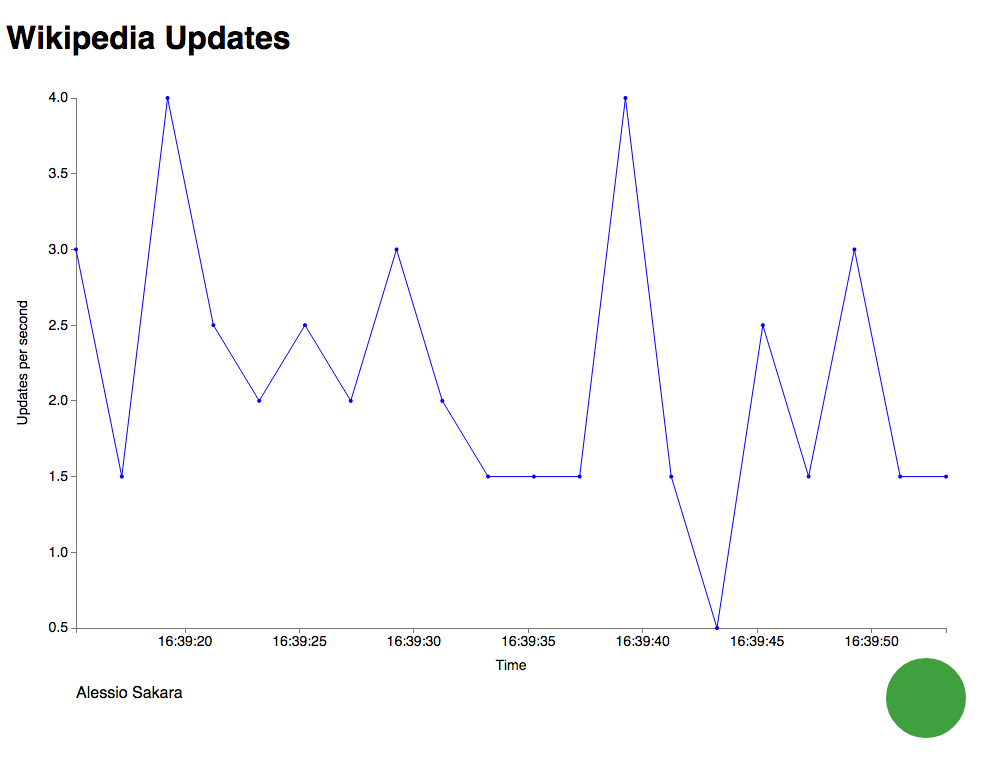
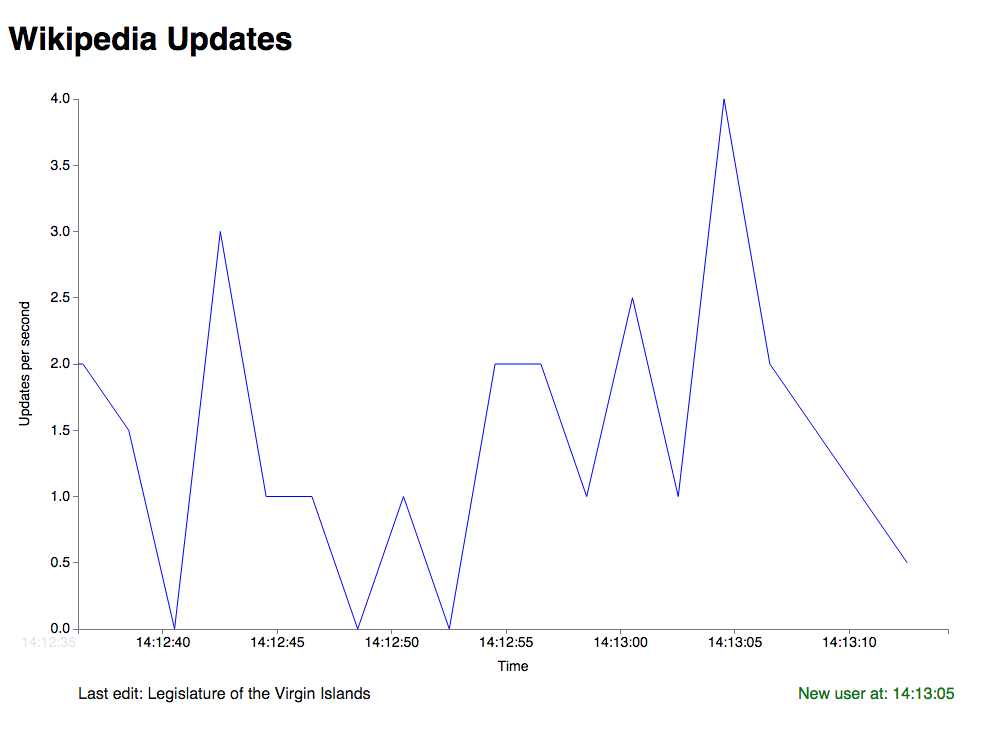
Updates blog post to match latest D3 functionality
I've updated the chart so that it looks like it scrolling forward in time.
This is a lot more appropriate for the use case than the default
transitions which D3 provides.

diff --git a/dgorst/_posts/2014-07-18-frp-with-bacon-and-d3.md b/dgorst/_posts/2014-07-18-frp-with-bacon-and-d3.md
@@ -89,7 +89,8 @@ var updateCount = updateStream.scan(0, function(value) {
 We shall sample this count every 2 seconds. Bacon provides a method, *sample*, which facilitates this.
 
 {% highlight javascript %}
-var sampledUpdates = updateCount.sample(2000);
+var samplingTime = 2000;
+var sampledUpdates = updateCount.sample(samplingTime);
 {% endhighlight %}
 
 Now that we are sampling the number of updates received every 2 seconds, we can calculate the number of updates received since the last sample, and hence the rate at which Wikipedia is being updated.
@@ -97,7 +98,8 @@ Now that we are sampling the number of updates received every 2 seconds, we can 
 {% highlight javascript %}
 var totalUpdatesBeforeLastSample = 0;
 sampledUpdates.onValue(function(value) {
-    var updateRate = (value - totalUpdatesBeforeLastSample) / 2.0;
+    var updateRate = (value - totalUpdatesBeforeLastSample) / 
+                    (samplingTime / 1000));
     console.log(updateRate);
     totalUpdatesBeforeLastSample = value;
     return value;
@@ -110,7 +112,7 @@ Now that we have defined our functional pipeline for events, it's time to do som
 
 I imagine most of you will have heard of D3 already, but for those of you who haven't, D3 is a powerful javascript library for binding data sets to a Document Object Model (DOM). It makes it easier to create good-looking visualisations of your data, and facilitates advanced features such as interactivity or transitions.
 
-In this example, we shall display a line chart showing the rate of Wikipedia updates over time. We shall annotate the chart when new users are created, and we shall display text below the chart showing the subject of Wikipedia edits.
+In this example, we shall display a line chart showing the rate of Wikipedia updates over time. We shall display some text below the chart showing when new users are created, and we shall display text below the chart showing the subject of the latest Wikipedia edits.
 
 First, we shall update our HTML page to contain an SVG element. We shall use this to display our chart and text.
 
@@ -153,11 +155,9 @@ var svg = d3.select("svg")
     .attr("width", width)
     .attr("height", height + 200);
 
-var xRange = d3.time.scale()
-    .range([margins.left, width - margins.right])
+var xRange = d3.time.scale().range([margins.left, width - margins.right])
     .domain([new Date(), new Date()]);
-var yRange = d3.scale.linear()
-    .range([height - margins.bottom, margins.top])
+var yRange = d3.scale.linear().range([height - margins.bottom, margins.top])
     .domain([0, 0]);
 var xAxis = d3.svg.axis()
     .scale(xRange)
@@ -205,19 +205,29 @@ var lineFunc = d3.svg.line()
     .y(function(d) { return yRange(d.y); })
     .interpolate("linear");
 
-var line = svg.append("path")
+svg.append("defs").append("clipPath")
+    .attr("id", "clip")
+    .append("rect")
+    .attr("x", margins.left)
+    .attr("y", margins.top)
+    .attr("width", width)
+    .attr("height", height);
+
+var line = svg.append("g")
+    .attr("clip-path", "url(#clip)")
+    .append("path")
     .attr("stroke", "blue")
     .attr("fill", "none");
 {% endhighlight %}
 
-There are a few things going on in that last code snippet, so let's go through it in a little more detail. First we define a variable which will hold our update data. We shall update this in response to events being handled in our functional pipeline. We then set the size of the SVG element on our HTML page, and add our chart to it. The chart contains an x axis and a y axis, and it displays its data in a line chart. We format the x axis to display date/time values. Initially both the x and y axes have zero ranges. We shall update these as data comes in. We set the attributes of our line series, but we don't actually bind it to a data set yet. We shall do that later on.
+There are a few things going on in that last code snippet, so let's go through it in a little more detail. First we define a variable which will hold our update data. We shall update this in response to events being handled in our functional pipeline. We then set the size of the SVG element on our HTML page, and add our chart to it. The chart contains an x axis and a y axis, and it displays its data in a line chart. We format the x axis to display date/time values. Initially both the x and y axes have zero ranges. We shall update these as data comes in. We set the attributes of our line series, but we don't actually bind it to a data set yet. We shall do that later on. We also define a clipping area, which we apply to the line series. I'll explain the need for this in the next section.
 
 Now that we have a line chart on our page, we need to define a function to update it when new data comes in.
 
 {% highlight javascript %}
-var updateTransitionDuration = 550;
+var maxNumberOfDataPoints = 20;
 
-function update(updates, newUser) {
+function update(updates) {
     // Update the ranges of the chart to reflect the new data
     if (updates.length > 0)   {
         xRange.domain(d3.extent(updates, function(d) { return d.x; }));
@@ -225,99 +235,115 @@ function update(updates, newUser) {
                        d3.max(updates, function(d) { return d.y; })]);
     }
     
-    // Update the line series on the chart
-    line.transition()
-        .duration(updateTransitionDuration)
-        .attr("d", lineFunc(updates));
+    // Until we have filled up our data window, we just keep adding data
+    // points to the end of the chart.
+    if (updates.length < maxNumberOfDataPoints) {
+        line.transition()
+            .ease("linear")
+            .attr("d", lineFunc(updates));
+        
+        svg.selectAll("g.x.axis")
+            .transition()
+            .ease("linear")
+            .call(xAxis);
+    }
+    // Once we have filled up the window, we then remove points from the 
+    // start of the chart, and move the data over so the chart looks 
+    // like it is scrolling forwards in time
+    else    {
+        // Calculate the amount of translation on the x axis which equates 
+        // to the time between two samples
+        var xTranslation = xRange(updates[0].x) - xRange(updates[1].x);
+        
+        // Transform our line series immediately, then translate it from
+        // right to left. This gives the effect of our chart scrolling
+        // forwards in time
+        line
+            .attr("d", lineFunc(updates))
+            .attr("transform", null)
+            .transition()
+            .duration(samplingTime - 20)
+            .ease("linear")
+            .attr("transform", "translate(" + xTranslation + ", 0)");
+        
+        svg.selectAll("g.x.axis")
+            .transition()
+            .duration(samplingTime - 20)
+            .ease("linear")
+            .call(xAxis);
+    }
     
-    // Update the axes on the chart
-    svg.selectAll("g.x.axis")
-        .transition()
-        .duration(updateTransitionDuration)
-        .call(xAxis);
     svg.selectAll("g.y.axis")
         .transition()
-        .duration(updateTransitionDuration)
         .call(yAxis);
-    
-    // Render the points in the line series
-    var points = svg.selectAll("circle").data(updates);
-    var pointsEnter = points.enter().append("circle")
-        .attr("r", 2)
-        .style("fill", "blue");
-    
-    var pointsUpdate = points
-        .transition()
-        .duration(updateTransitionDuration)
-        .attr("cx", function(d) { return xRange(d.x); })
-        .attr("cy", function(d) { return yRange(d.y); });
-    
-    var pointsExit = points.exit()
-        .transition().duration(updateTransitionDuration)
-        .remove();
-    
-    var newUserIndicator = svg.selectAll("circle.new-user").data(newUser);
-    newUserIndicator.enter().append("circle")
-        .attr("class", "new-user")
-        .attr("r", 40)
-        .attr("fill", "green")
-        .attr("cx", width - margins.right - 20)
-        .attr("cy", height + 20)
-        .attr("opacity", 1e-6)
-        .transition()
-        .duration(updateTransitionDuration)
-        .attr("opacity", 0.75);
-    
-    newUserIndicator.exit()
-        .transition()
-        .duration(updateTransitionDuration)
-        .attr("cx", width - margins.right - 20)
-        .attr("cy", height + 20)
-        .attr("opacity", 1e-6)
-        .remove();
 }
 {% endhighlight %}
 
-In the update method, we refresh the ranges of our axes to reflect the ranges of the new data. When we receive any new user events, we show a circular indicator below the chart on the right hand side. We bind the line series to the *updates* variable which we pass in, and we bind the new user indicator to the *newUser* variable.
+In the update method, we refresh the ranges of our axes to reflect the ranges of the new data. We bind the line series to the *updates* variable which we pass into the function. Let's look at the transitions we apply to the line series and the x axis in more detail. Until we have a set number of data points in our charts, we add data points to the end of the chart. Once the chart contains that amount of data, we display a moving window on the data - as we add data to the end of the chart, we remove data from the start. In order to give the effect of the line series scrolling forwards in time, we apply a translation to the line series when we update it. This is why we needed to define the clipping area earlier, this ensures that any section of the line series which is translated to the left of the y axis is clipped. We set the duration of the transition to be slightly shorter than the sampling interval - this ensures that the translation is done by the time we update the chart again.
 
-To make the chart look prettier, we've drawn circles to represent the points on the line series. These are also bound to the *updates* variable. To make chart updates look nicer, we've defined transitions for update events in the chart. Rather than just jerking to its new state, we have defined a transition on the line series and its points. This means that they will animate nicely to their new positions when data changes. We also fade the new user indicator in and out rather than just making it appear and disappear.
-
-Now that we have a function to update our chart when new data is received, let's make use of it in our functional pipeline. Let's the method we defined earlier which takes samples of update events, and update it to refresh our chart.
+Now that we have a function to update our chart when new data is received, let's make use of it in our functional pipeline. Let's take the method we defined earlier which takes samples of update events, and update it to refresh our chart.
 
 {% highlight javascript %}
 sampledUpdates.onValue(function(value) {
     updatesOverTime.push({
         x: new Date(), 
-        y:(value - totalUpdatesBeforeLastSample) / 2.0
+        y:(value - totalUpdatesBeforeLastSample) / (samplingTime / 1000)
     });
-    if (updatesOverTime.length > 20)  {
+    if (updatesOverTime.length > maxNumberOfDataPoints)  {
         updatesOverTime.shift();
     }
     totalUpdatesBeforeLastSample = value;
-    update(updatesOverTime, []);
+    update(updatesOverTime);
     return value;
 });
 {% endhighlight %}
 
-Great, so now our chart will update each time we take a new sample. We define each value in the *updatesOverTime* array as an object with an x and a y value. We set the x value to be the time at which the sample is taken. We are taking a moving window view of our data - we use the 20 most recent samples and throw older data away. Notice that we're passing an empty array as the second argument into our *update* function - we are doing this to tell the chart to hide the new user indicator if it is displaying. We should also tell the chart to display the indicator when a new user is recieved - let's look at doing that now.
+Great, so now our chart will update each time we take a new sample. We define each value in the *updatesOverTime* array as an object with an x and a y value. We set the x value to be the time at which the sample is taken. We are taking a moving window view of our data - we use the 20 most recent samples and throw older data away.
 
-Earlier we defined an event stream to filter out new user events from the main stream. Let's update that to refresh our chart instead of logging to the console.
+Earlier we defined an event stream to filter out new user events from the main stream. Let's update that to refresh our UI instead of logging to the console. First, let's add a text element below the chart. We configure it to be lined up with the right hand side of the chart. This will display the time at which the last new user was added. At the same time, we can add a function to update this element.
+
+{% highlight javascript %}
+var newUserTextWidth = 150;
+svg.append("text")
+    .attr("class", "new-user-text")
+    .attr("fill", "green")
+    .attr("transform", "translate(" + 
+        (width - margins.right - newUserTextWidth) + "," + 
+        (height + 20)  + ")")
+    .attr("width", newUserTextWidth);
+
+var textUpdateTransitionDuration = 550;
+var updateNewUser = function(newUser)   {
+    var text = svg.selectAll("text.new-user-text").data(newUser);
+
+    text.transition()
+        .duration(textUpdateTransitionDuration)
+        .style("fill-opacity", 1e-6)
+        .transition()
+        .duration(textUpdateTransitionDuration)
+        .style("fill-opacity", 1)
+        .text(function (d) { return d; });
+}
+{% endhighlight %}
+
+To improve the look and feel of the change, we apply fade transitions to the text. It first of all fades out the old text, then fades in the new one. Now we shall update our new user event stream to call this update method.
 
 {% highlight javascript %}
 newUserStream.onValue(function(results) {
-    update(updatesOverTime, ["newuser"]);
+    var format = d3.time.format("%X");
+    updateNewUser(["New user at: " + format(new Date())]);
 });
 {% endhighlight %}
 
-So now we refresh our chart in response to 2 types of events - either when we take a new sample of the rate of updates, or when a new user event is received. The data we're sending as the second argument to the chart when we receive a new user event is a little contrived, but it allows the chart to update and it gives the chart something to bind to. We don't receive any information on the new user which was created, so for now we just tell the chart that there was one.
-
-Finally, it would be interesting to see the subjects which are being edited in Wikipedia as well as seeing the rate of updates. To do this, we shall add a text element below our chart. In our Javascript, we can add a text element below the code where we create our line chart.
+Finally, it would be interesting to see the subjects which are being edited in Wikipedia as well as seeing the rate of updates. To do this, we shall add another text element below our chart.
 
 {% highlight javascript %}
-// Add a text element below the chart, which will display the subject of new edits
+// Add a text element below the chart, which will display the 
+// subject of new edits
 svg.append("text")
     .attr("class", "edit-text")
-    .attr("transform", "translate(" + margins.left + "," + (height + 20)  + ")")
+    .attr("transform", "translate(" + margins.left + "," + 
+        (height + 20)  + ")")
     .attr("width", width - margins.left);
 {% endhighlight %}
 
@@ -328,22 +354,22 @@ var updateEditText = function(latestEdit)   {
     var text = svg.selectAll("text.edit-text").data(latestEdit);
 
     text.transition()
-        .duration(updateTransitionDuration)
+        .duration(textUpdateTransitionDuration)
         .style("fill-opacity", 1e-6)
         .transition()
-        .duration(updateTransitionDuration)
+        .duration(textUpdateTransitionDuration)
         .style("fill-opacity", 1)
         .text(function (d) { return d; });
 }
 {% endhighlight %}
 
-When we receive a new edit event, we update the text element to display it. To improve the look and feel of the change, we apply fade transitions to the text. It first of all fades out the old text, then fades in the new one.
+When we receive a new edit event, we update the text element to display it. We apply the same fade transitions as we did for the new user text element.
 
 Earlier, we defined a stream to filter out edit events from the main stream. Let's update that to refresh our text element when new edit events are received.
 
 {% highlight javascript %}
 editStream.onValue(function(results) {
-    updateEditText([results.content]);
+    updateEditText(["Last edit: " + results.content]);
 });
 {% endhighlight %}
 
